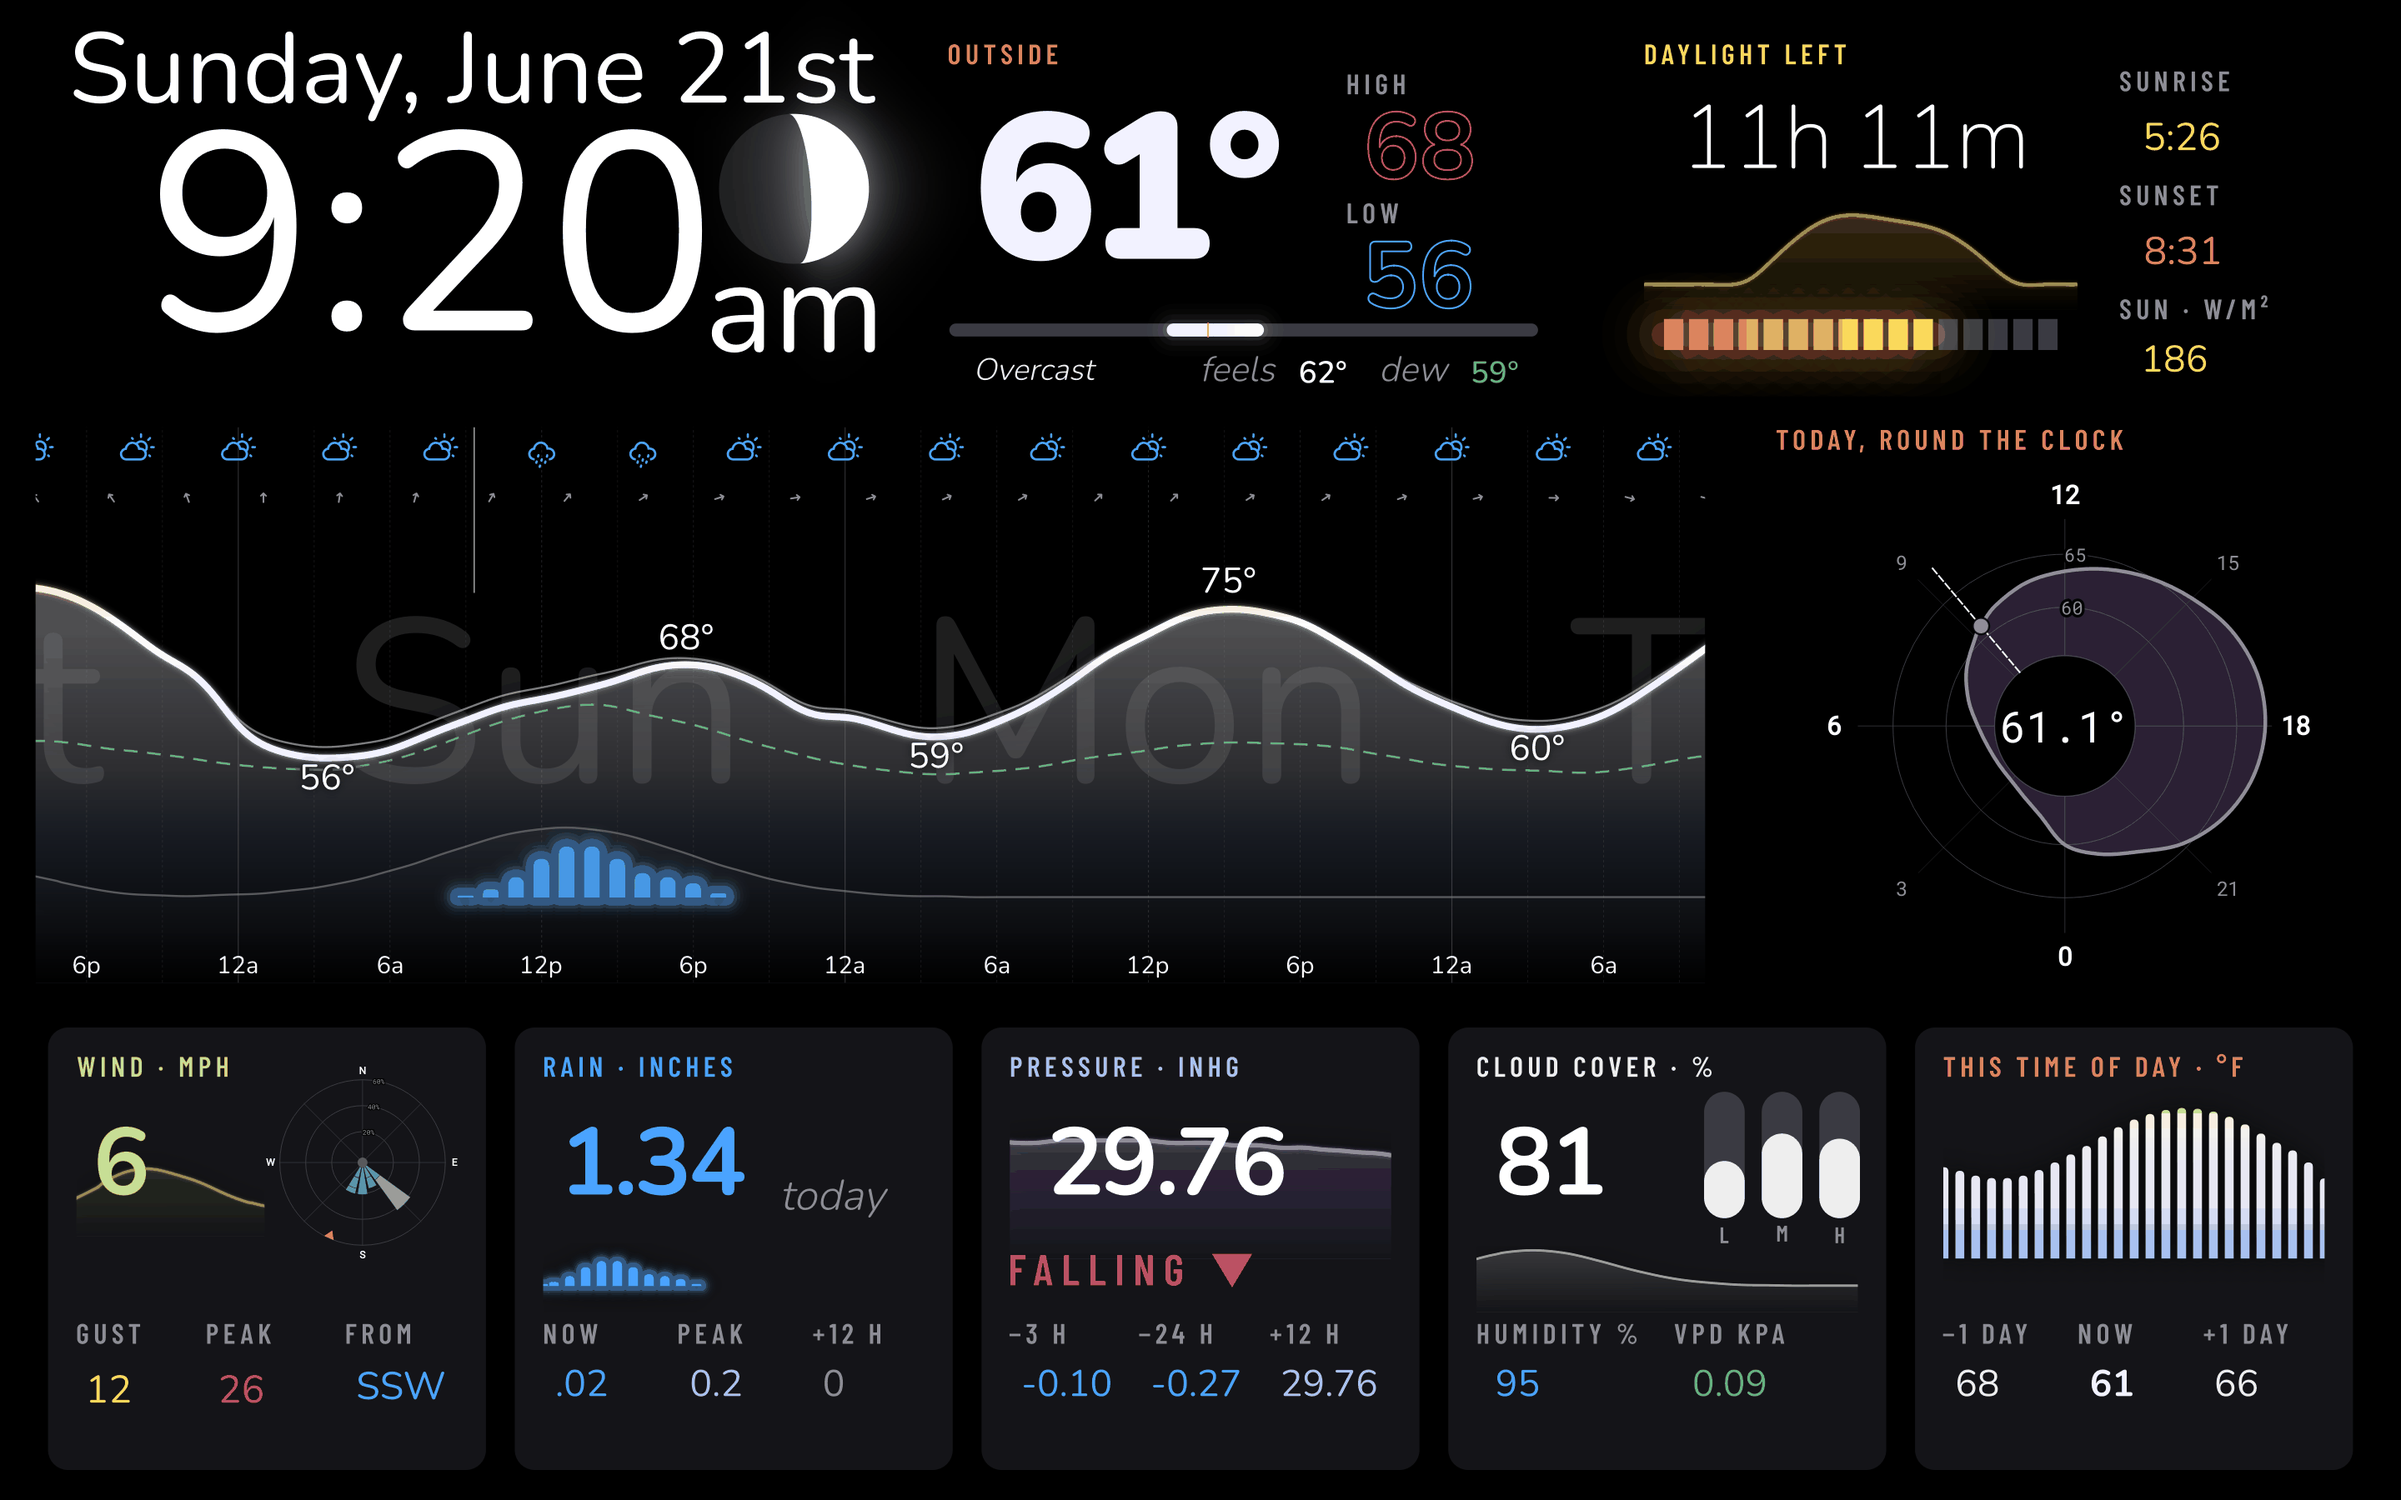
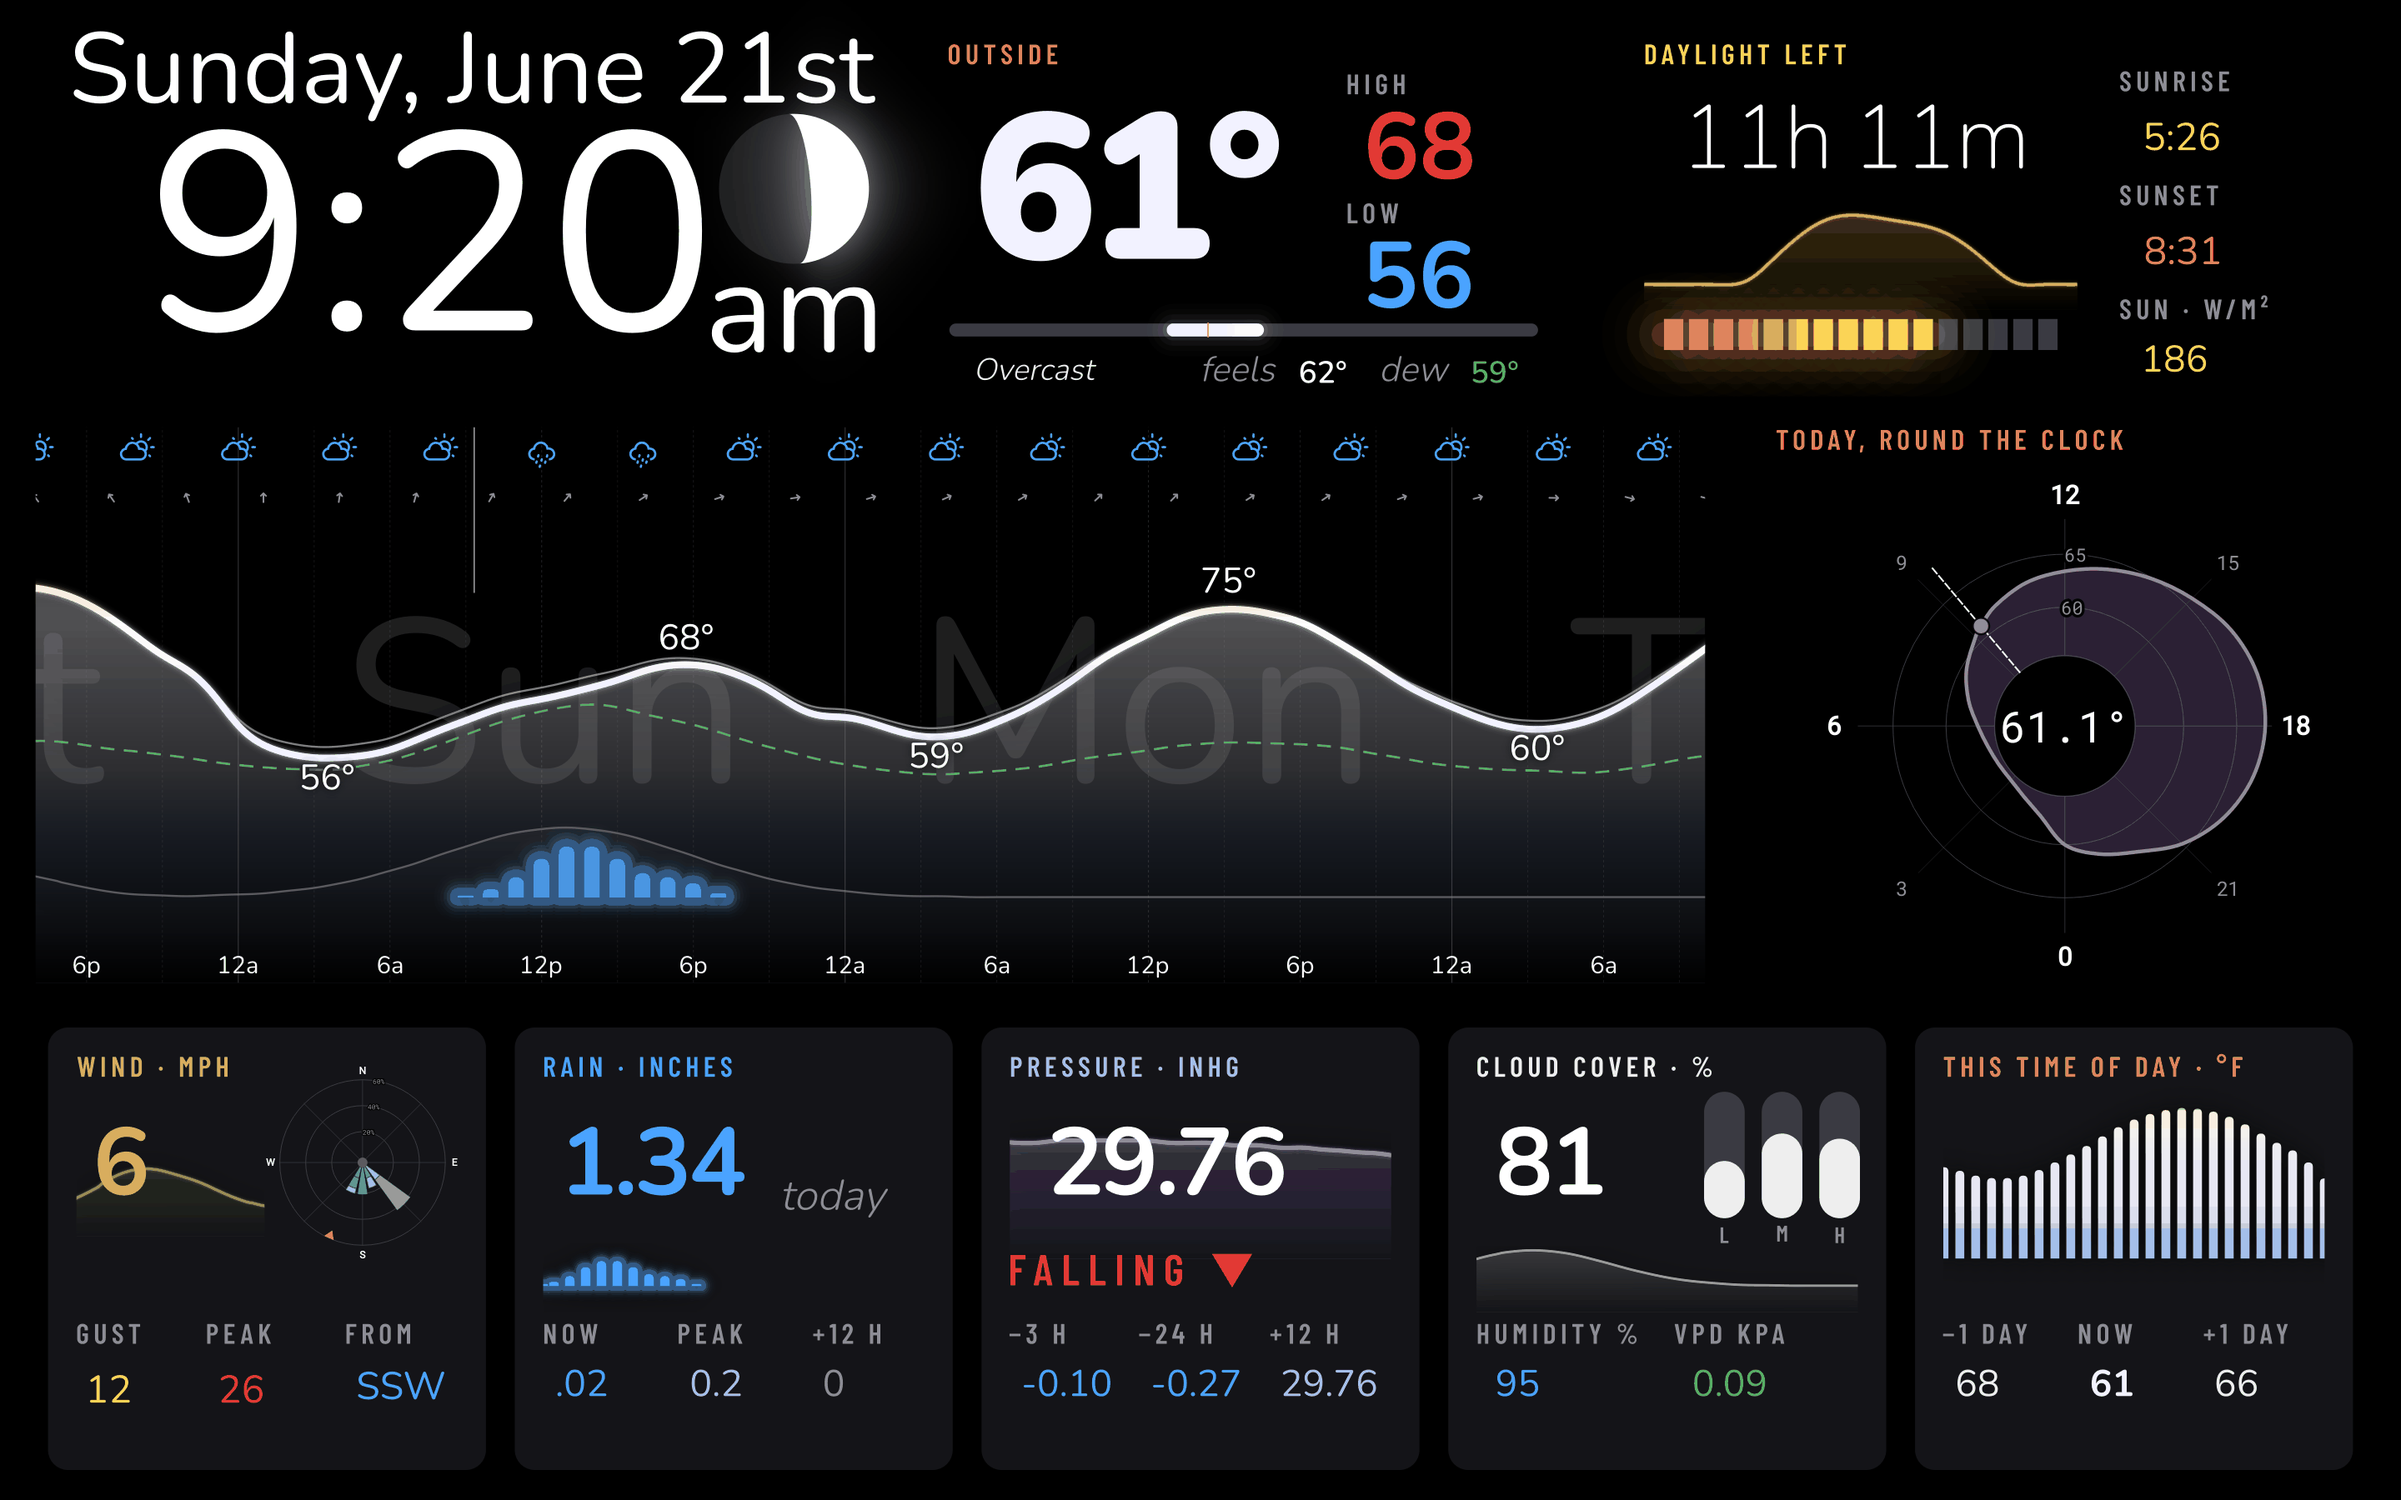
fix(Templates): solid high and low on the default dashboard
The hollow hairline numerals were hard to read; they are now bold and filled
in their colours.

Claude-Session: https://claude.ai/code/session_01P1S9nMzFZHowZTvjwnQnbx

diff --git a/docs/design-references/showcase/default.py b/docs/design-references/showcase/default.py
@@ -118,10 +118,10 @@ def board():
 		cap_('OUTSIDE', g(x, 2.8, 12, CAP), '$accent'),
 		num(T, g(x - 0.4, 4.6, 16, 15.6), {'scale': '$temperature', 'of': T}, unit='Inline', hint='00°', weight='Black', tracking=-0.04),
 		cap_('HIGH', g(x + 16.6, 4.8, 7, CAP)),
-		num('environment.temperature.high', g(x + 16.6, 6.8, 8, 5.8), '$bad', hint='00', weight='Bold', outline=2, group='global.hollow',
+		num('environment.temperature.high', g(x + 16.6, 6.8, 8, 5.8), '$bad', hint='00', weight='Bold', group='global.hilo',
 		    fmt={'unit_symbol': False}),
 		cap_('LOW', g(x + 16.6, 13.4, 7, CAP)),
-		num('environment.temperature.low', g(x + 16.6, 15.4, 8, 5.8), '$info', hint='00', weight='Bold', outline=2, group='global.hollow',
+		num('environment.temperature.low', g(x + 16.6, 15.4, 8, 5.8), '$info', hint='00', weight='Bold', group='global.hilo',
 		    fmt={'unit_symbol': False}),
 		# The day's low to high on a 30 to 100 °F track, the temperature now as a line across it.
 		bar(T, g(x, 20.9, 24.6, 2.2), 30, 100, track={'weight': '42%', 'color': '$rule'},
@@ -263,7 +263,7 @@ HEADER = """
 The default dashboard for OpenMeteo, the forecast LevityDash starts with.
 
 Top: the clock (the date on its own line, the time, the moon over am or pm), the temperature with the day's high and
-low as hollow numerals, and the daylight left over today's sunlight. Middle: two and a half days ahead, with
+low in bold colour, and the daylight left over today's sunlight. Middle: two and a half days ahead, with
 today's temperature round a 24 hour clock. Bottom: wind, rain, pressure, the sky, and the last 24 hours.
 
 Every key comes from OpenMeteo or the built-in Astronomy plugin. Fonts are the bundled Nunito and Barlow Condensed.
